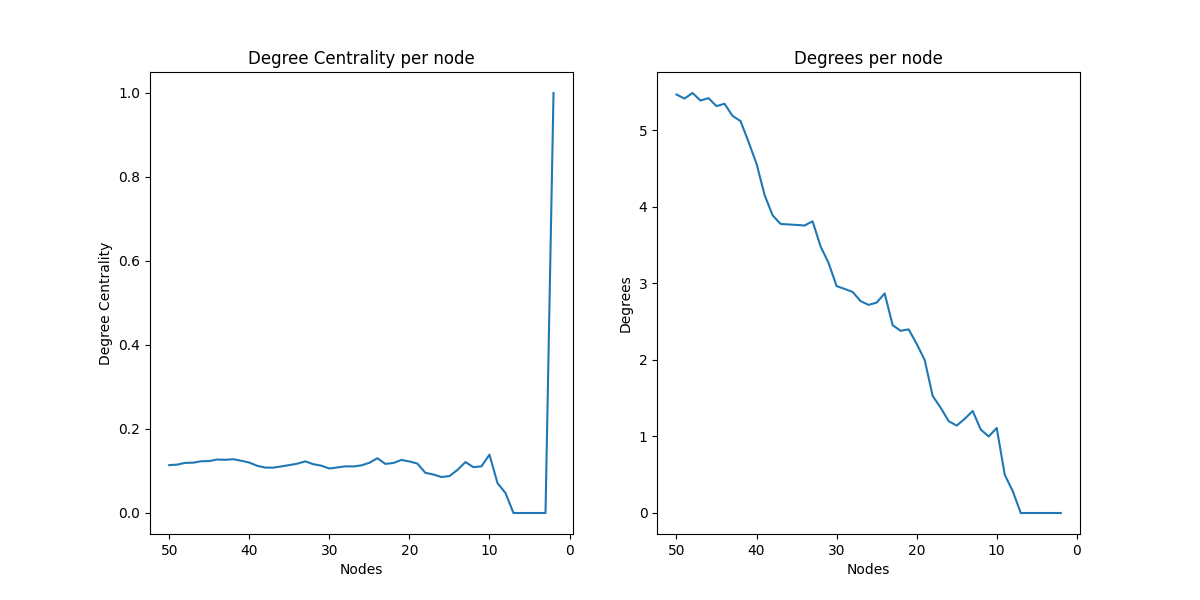
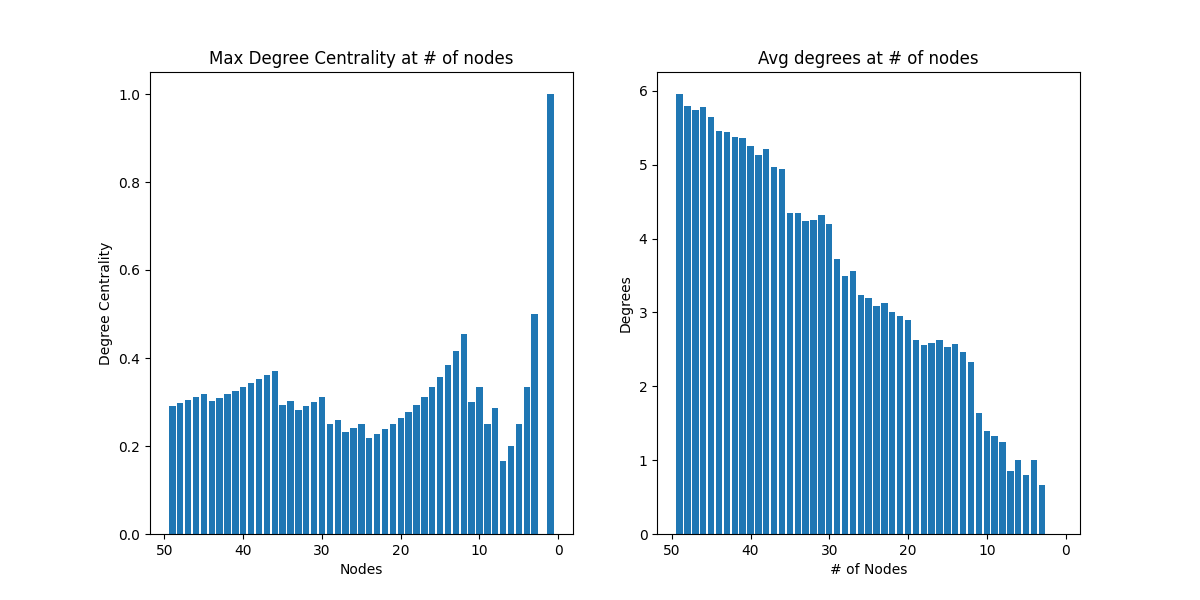
aoughaldf

diff --git a/task1.py b/task1.py
@@ -29,27 +29,27 @@ def remove_rand(graph):
     while len(list(graph)) > 1:
         rand = choice(list(graph.nodes()))
         graph.remove_node(rand)
-        _, _, d, avg_degree = degrees(graph)
+        _, _, centrality, avg_degree = degrees(graph)
         avg_degrees.append(avg_degree)
-        avg_degree_c.append(statistics.mean(d))
+        avg_degree_c.append(max(centrality))
 
     print("Avg degrees: ", avg_degrees)
-    nodes = list(range(50, 50 - len(avg_degree_c), -1))
+    nodes = list(range(len(avg_degree_c), 0, -1))
 
     fig = plt.figure("Degrees After", figsize=(12, 6))
     axgrid = fig.add_gridspec(4, 2)
     ax1 = fig.add_subplot(axgrid[:, :1])
-    ax1.plot(nodes, avg_degree_c)
+    ax1.bar(nodes, avg_degree_c)
     ax1.xaxis.set_inverted(True)
-    ax1.set_title("Degree Centrality per node")
+    ax1.set_title("Max Degree Centrality at # of nodes")
     ax1.set_ylabel("Degree Centrality")
     ax1.set_xlabel("Nodes")
     ax2 = fig.add_subplot(axgrid[:, 1:])
     ax2.xaxis.set_inverted(True)
-    ax2.plot(nodes, avg_degrees)
-    ax2.set_title("Degrees per node")
+    ax2.bar(nodes, avg_degrees)
+    ax2.set_title("Avg degrees at # of nodes")
     ax2.set_ylabel("Degrees")
-    ax2.set_xlabel("Nodes")
+    ax2.set_xlabel("# of Nodes")
     plt.savefig("reg_rem.png")
 
 
@@ -63,12 +63,12 @@ def degrees(graph):
 
     avg_degree = statistics.mean(degs)
 
-    d = []
+    degree_centrality_values = []
     for node in graph:
         centrality = nx.degree_centrality(graph)
-        d.append(centrality[node])
+        degree_centrality_values.append(centrality[node])
 
-    return nodes, degs, d, avg_degree
+    return nodes, degs, degree_centrality_values, avg_degree
 
 
 def draw_degrees(nodes, degs, d, file="degrees.png"):
@@ -78,12 +78,12 @@ def draw_degrees(nodes, degs, d, file="degrees.png"):
     ax1.bar(nodes, d)
     ax1.set_title("Degree Centrality per node")
     ax1.set_ylabel("Degree Centrality")
-    ax1.set_xlabel("Nodes")
+    ax1.set_xlabel("Node")
     ax2 = fig.add_subplot(axgrid[:, 1:])
     ax2.bar(nodes, degs)
     ax2.set_title("Degrees per node")
     ax2.set_ylabel("Degrees")
-    ax2.set_xlabel("Nodes")
+    ax2.set_xlabel("Node")
     plt.savefig(file)
 
 

diff --git a/task2.py b/task2.py
@@ -6,10 +6,11 @@ import pickle
 def main():
     with open("karate_club_coords.pkl", "rb") as file:
         data = pickle.load(file, encoding="bytes")
+        print(data.keys())
     G = nx.Graph(data)
+    # print(nx.adjacency_matrix(G))
     nx.draw(G, with_labels=True)
     plt.savefig("karate.png")
-    print(data)
 
 
 if __name__ == "__main__":
